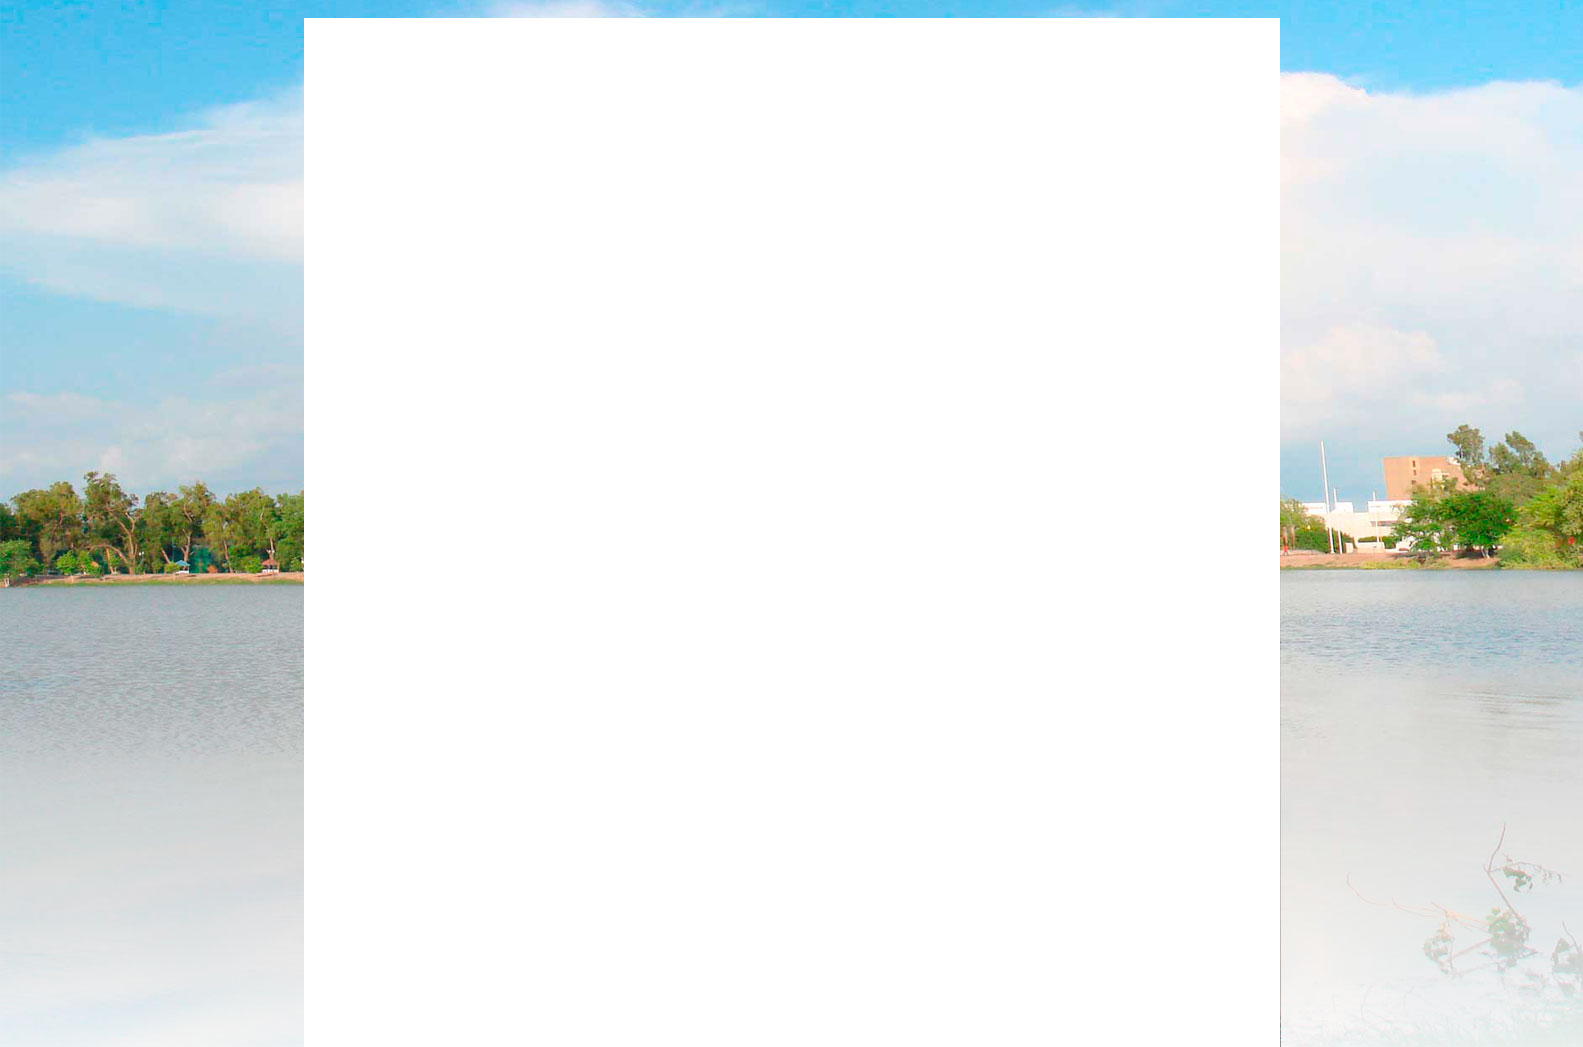
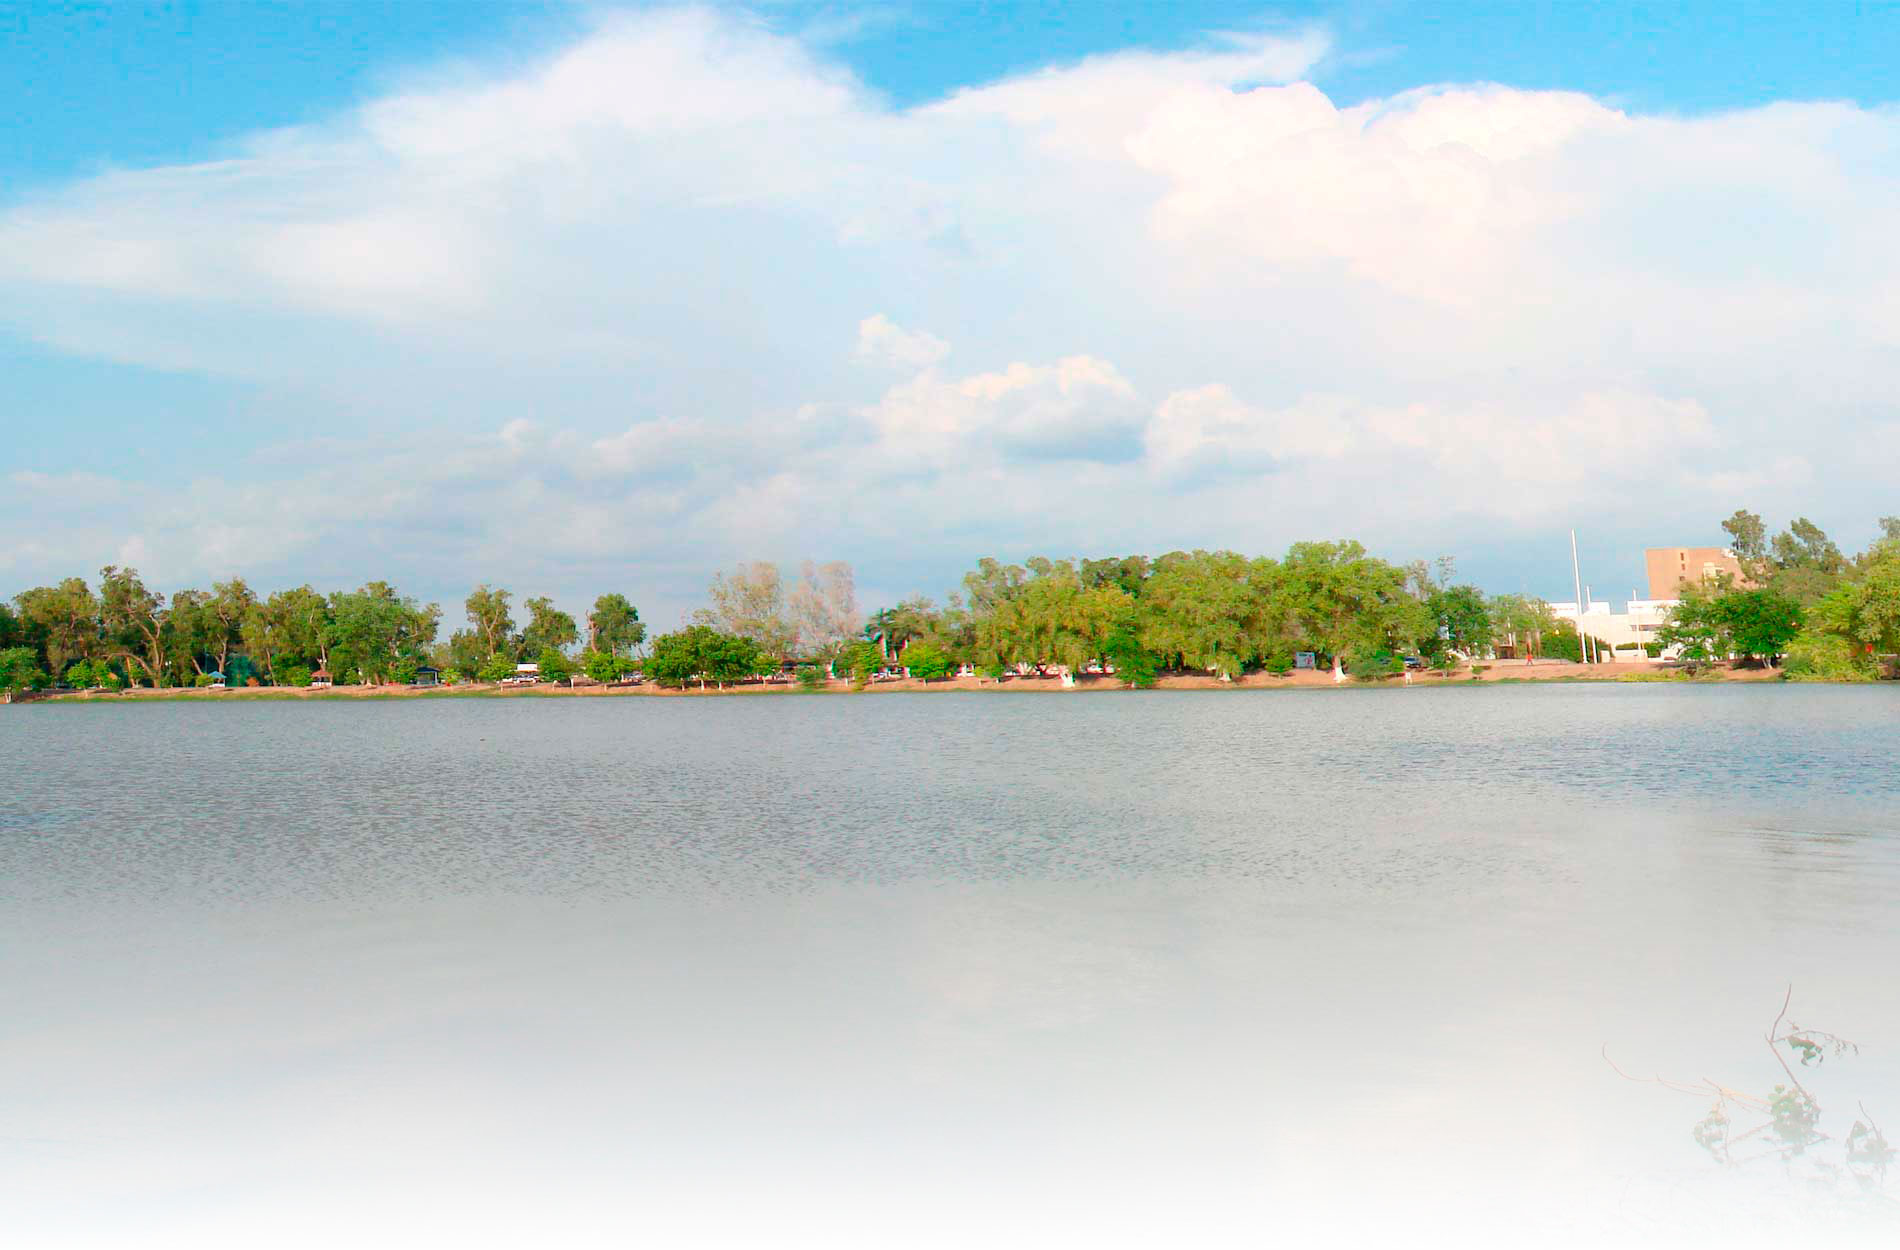
Backgorunds changed.

diff --git a/templates/ja_t3_blank/themes/tvazteca/css/template.css b/templates/ja_t3_blank/themes/tvazteca/css/template.css
@@ -1671,14 +1671,17 @@ div[class*='blog'] .items-row .item .article-tools {
 
 body.tvazteca-hermosillo #ja-wrapper {
 	background: url(../images/background-hermosillo.jpg) no-repeat;
+	background-size: 100%;
 }
 
 body.tvazteca-sonora-sur #ja-wrapper {
 	background: url(../images/background-sonora-sur.jpg) no-repeat;
+	background-size: 100%;
 }
 
 body.tvazteca-nogales #ja-wrapper {
 	background: url(../images/background-nogales.jpg) no-repeat;
+	background-size: 100%;
 }
 
 ul.social-icons {
@@ -1689,4 +1692,12 @@ ul.social-icons {
 ul.social-icons li {
 	display: inline;
 	padding-right: 10px;
+}
+
+body.tvazteca-hermosillo #ja-mainnews .main,
+body.tvazteca-sonora-sur #ja-mainnews .main,
+body.tvazteca-nogales #ja-mainnews .main {
+	width: 960px;
+	padding: 10px;
+	background: #fff;
 }
